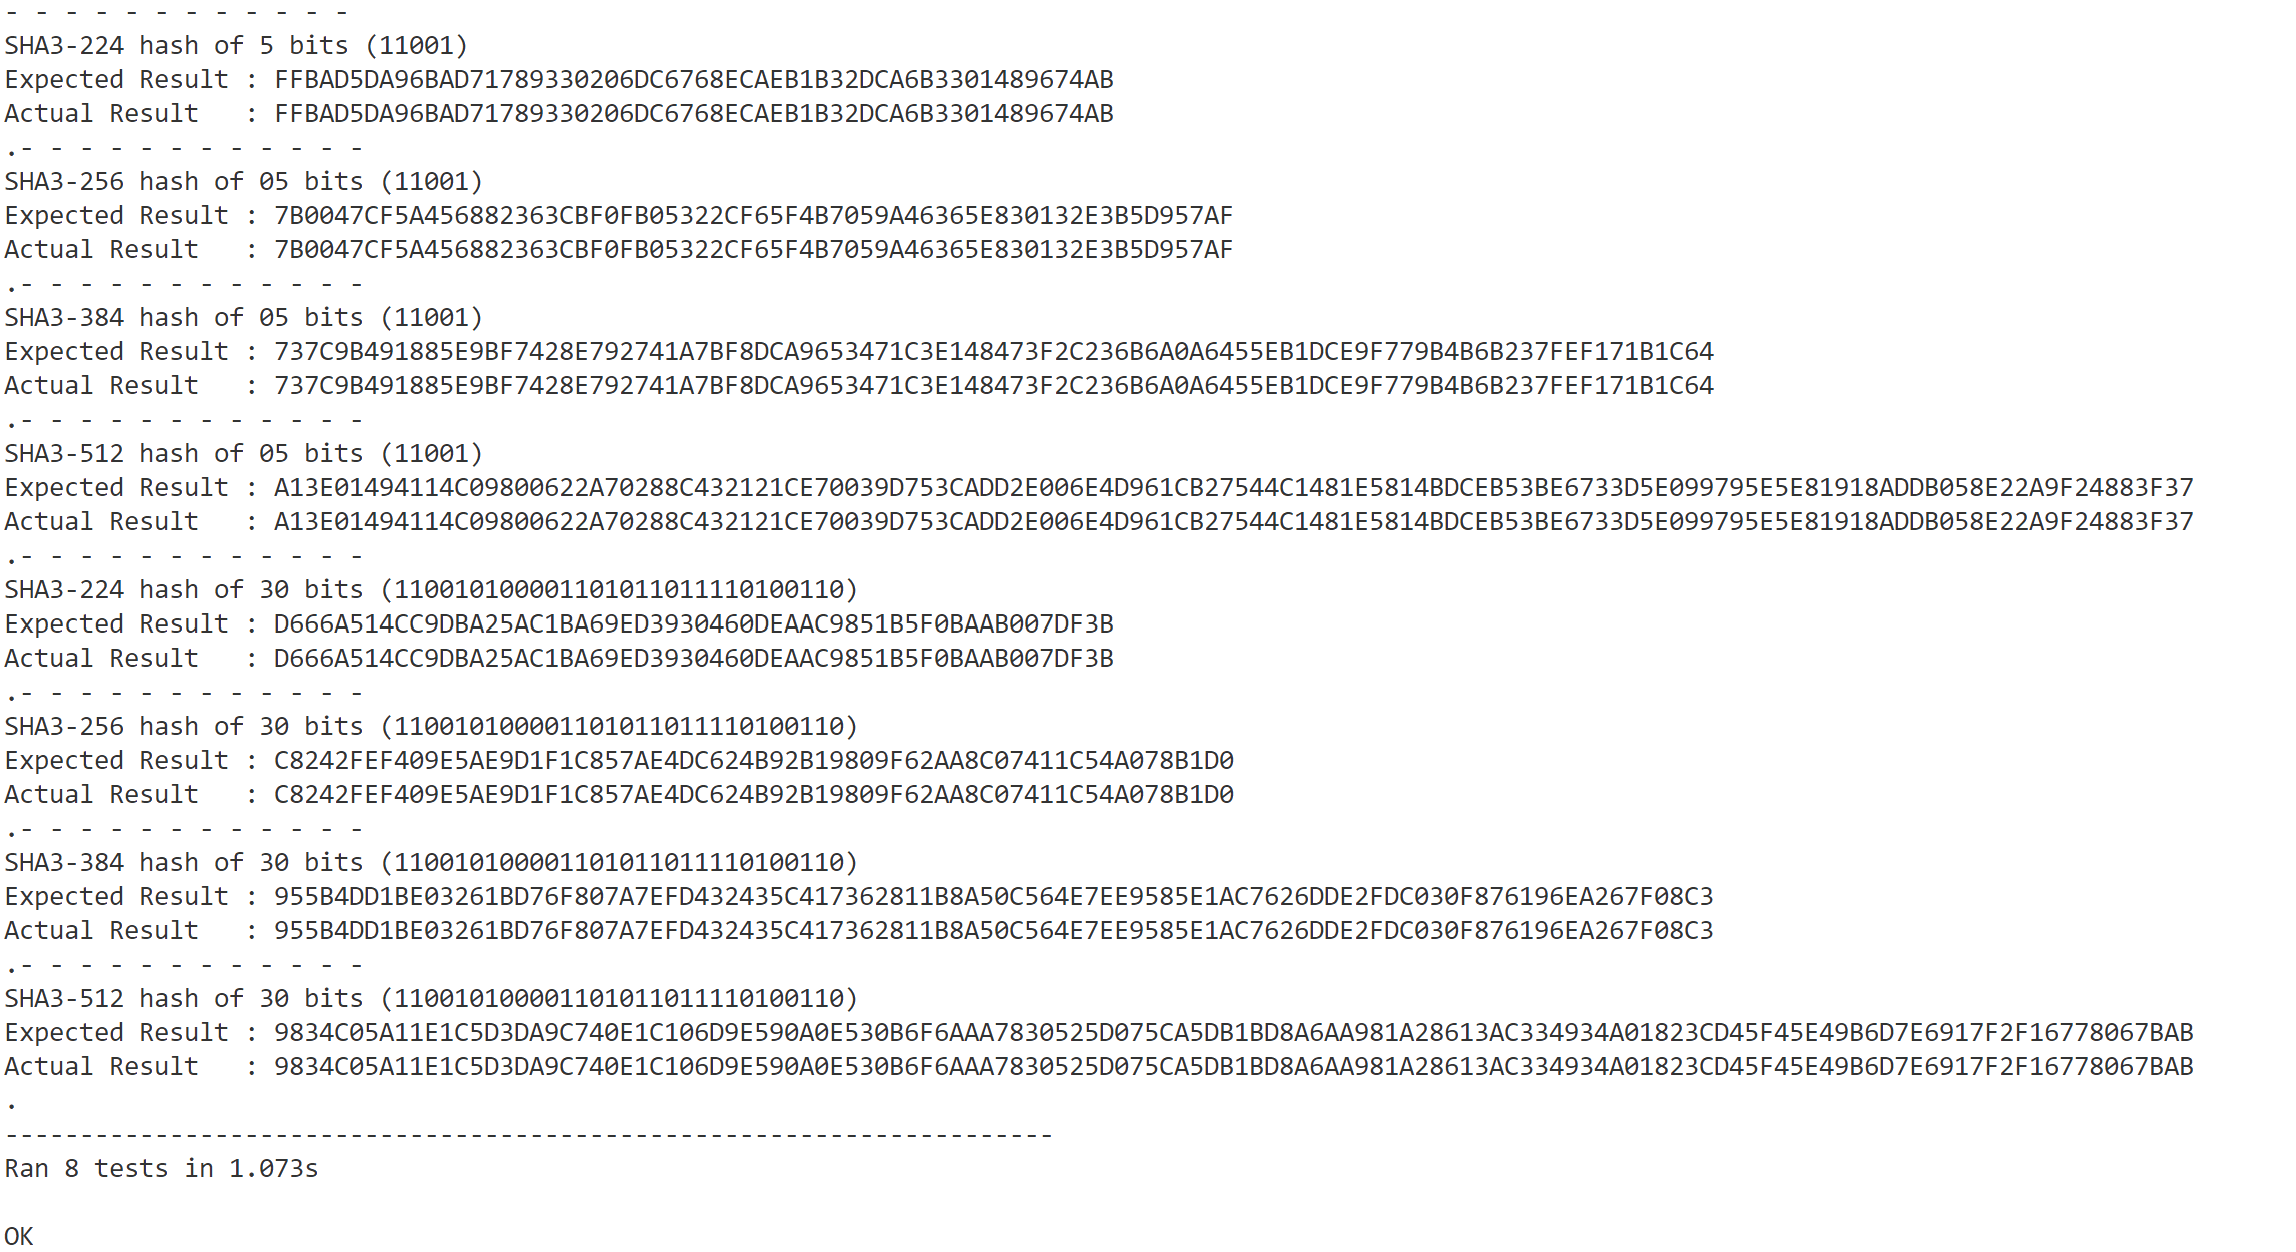
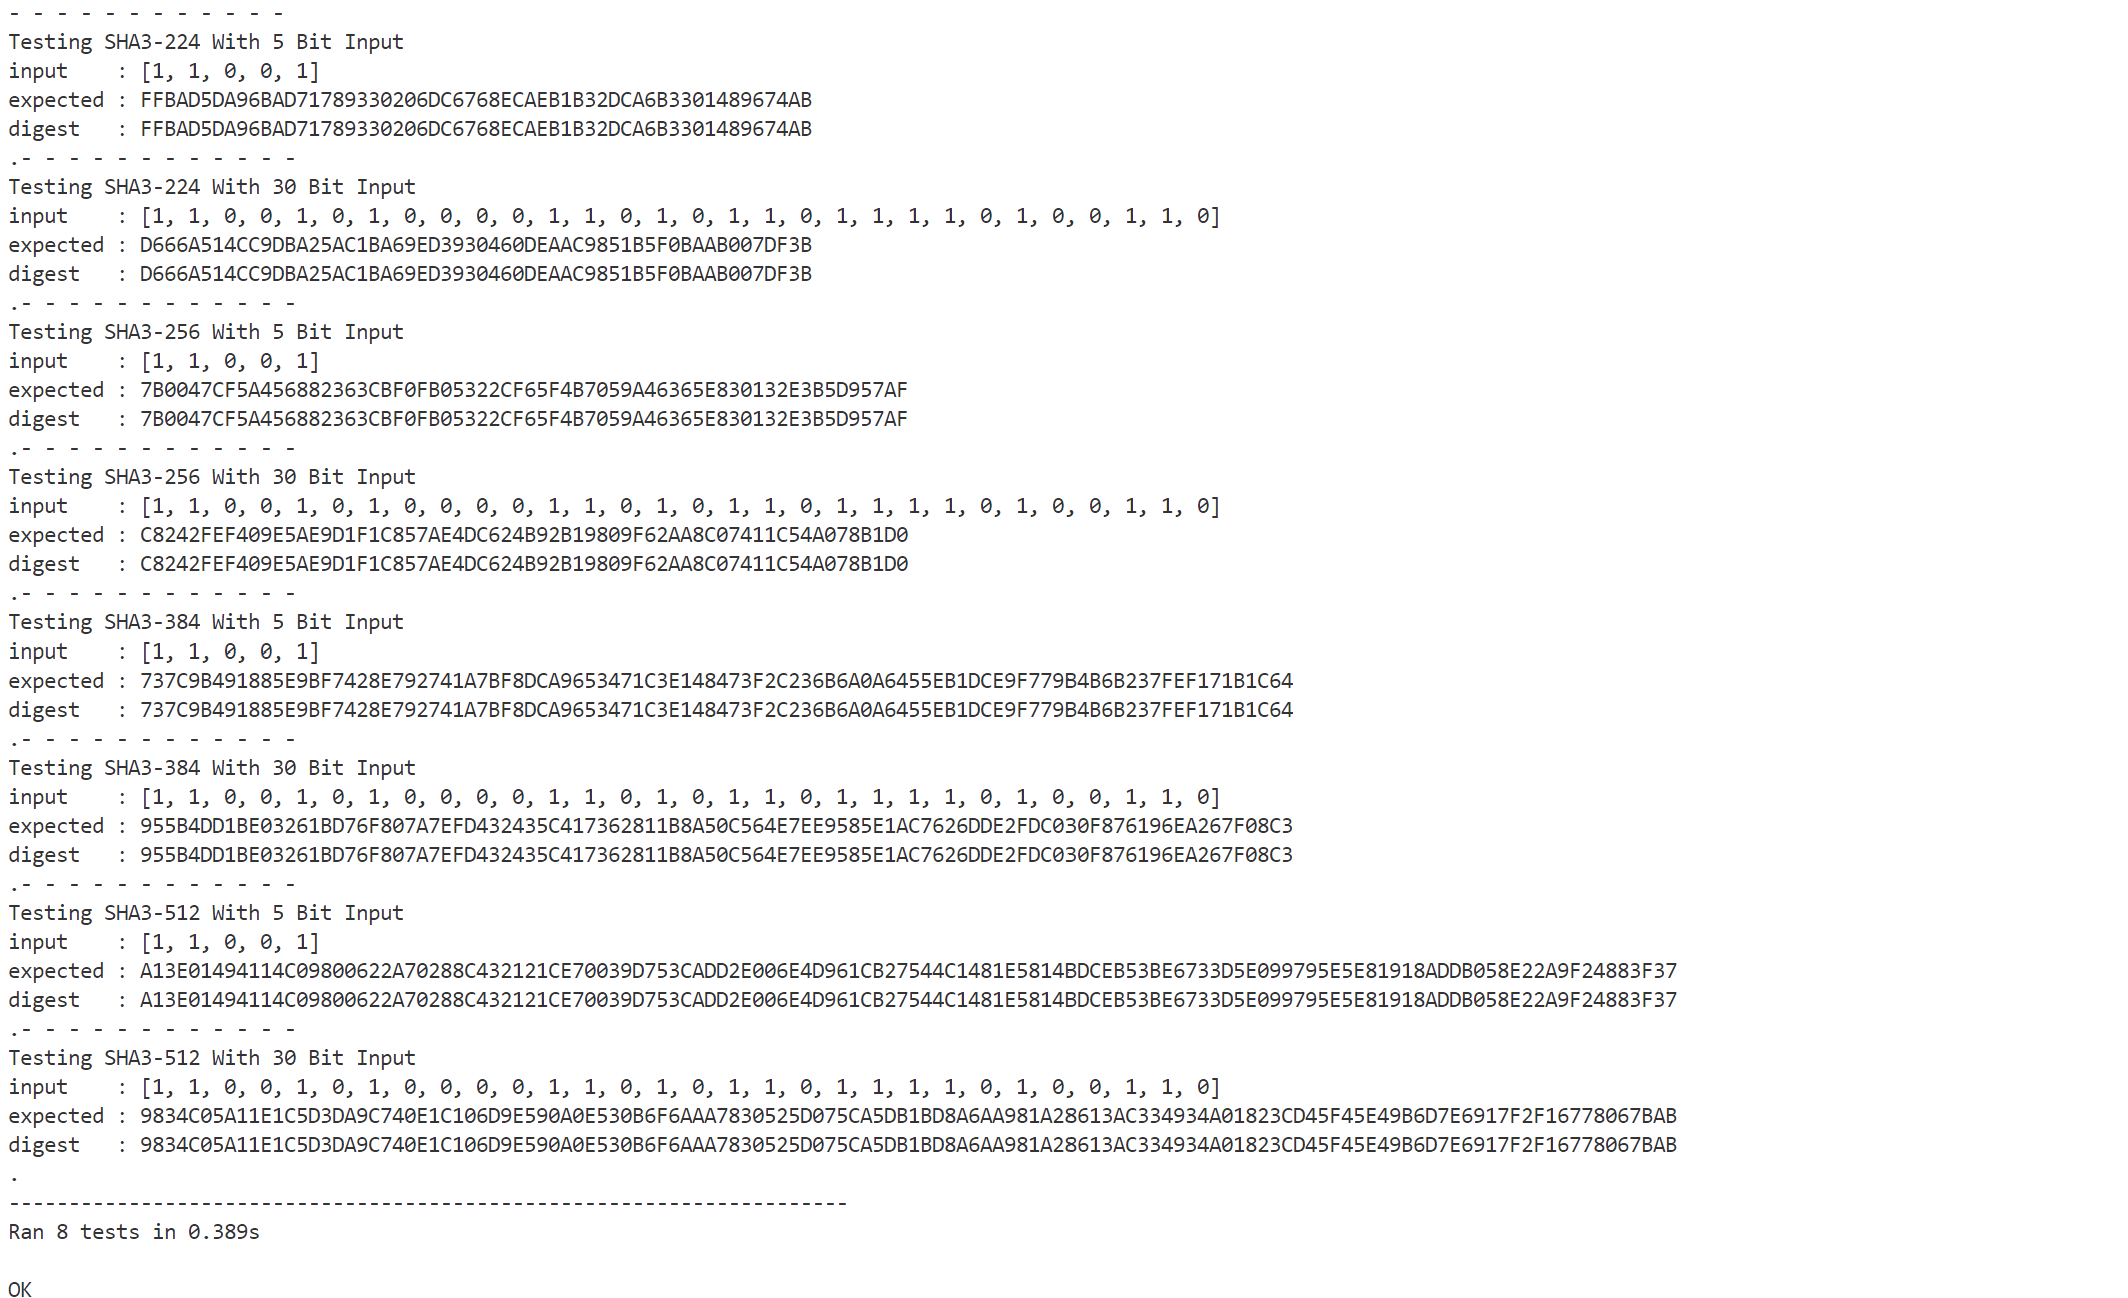
Updated SHA3 examples

Changed region(s): [[0.0, 0.2492, 0.9615, 1.0], [0.0, 0.0, 0.5583, 0.2181]]

diff --git a/CryptographySchemes/OutputImages/SHA3_Examples.py b/CryptographySchemes/OutputImages/SHA3_Examples.py
@@ -1,159 +1,164 @@
 import unittest
-from CryptographySchemes.SecureHashAlgorithm3 import *
-from math import log2
-
-def format_hex_as_bit_string(hex_string:str):
-    hex_string = hex_string.replace(" ","")
-    hex_len = len(hex_string)
-    value = int(hex_string,16)
-    bit_string = '{0:0{1}b}'.format(value,hex_len*4)
-    return bit_string
-
-def format_bit_as_hex_string(bit_string:str):
-    bit_string = bit_string.replace(" ","")
-    bit_len = len(bit_string)
-    value = int(bit_string,2)
-    bin_string = '{0:0{1}x}'.format(value,bit_len//4).upper()
-    return bin_string
+from CryptographySchemes.HashingAlgorithms.SecureHashAlgorithm3 import *
 
 class SHA3_UnitTest(unittest.TestCase):
     '''
-    This class contains basic unit tests for aes
+    This class contains example unit tests for SHA3
     '''
 
     def setUp(self):
         print("- - - - - - - - - - - -")
-        self.sha3_224 = SHA3_224()
-        self.sha3_256 = SHA3_256()
-        self.sha3_384 = SHA3_384()
-        self.sha3_512 = SHA3_512()
 
-        self.bit_string_input_5bit = "11001"
-        self.bit_string_input_30bit = "110010100001101011011110100110"
-        self.maxDiff = None
-
-    def test_05bit_sha224(self):
+    def test_sha224(self):
         '''
         This function tests the sha3-224 hash creation
 
         Test values taken from the SHA3 example files at https://csrc.nist.gov/projects/cryptographic-standards-and-guidelines/example-values
         '''
-
-        result = self.sha3_224.hashBinaryStringToHex(self.bit_string_input_5bit)
+        sha3 = SHA3_224()
+        bit_array_input = [1,1,0,0,1]
+        result = sha3.hashBitArray(bit_array_input)
         expected_result = "FF BA D5 DA 96 BA D7 17 89 33 02 06 DC 67 68 EC AE B1 B3 2D CA 6B 33 01 48 96 74 AB"
-        print(f"SHA3-224 hash of 5 bits ({self.bit_string_input_5bit})")
-        print(f"Expected Result : {expected_result.replace(" ","")}")
-        print(f"Actual Result   : {result}")        
-        self.assertEqual(len(result), 224//4)
-        self.assertEqual(expected_result.replace(" ",""),result)
+        handler_expected = SHA3_ValueHandler.fromHexString(expected_result)
+        print("Testing SHA3-224 With 5 Bit Input")
+        print(f"input    : {bit_array_input}")
+        print(f"expected : {handler_expected.getHexString()}")
+        print(f"digest   : {result.getHexString()}")
+        
+        self.assertEqual(result.getHexString(),handler_expected.getHexString())
 
-    def test_30bit_sha224(self):
+    def test_sha224_30bit(self):
         '''
         This function tests the sha3-224 hash creation
 
         Test values taken from the SHA3 example files at https://csrc.nist.gov/projects/cryptographic-standards-and-guidelines/example-values
         '''
-
-        result = self.sha3_224.hashBinaryStringToHex(self.bit_string_input_30bit)
+        sha3 = SHA3_224()
+        bit_array_input = [1,1,0,0,1,0,1,0,0,0,0,1,1,0,1,0,1,1,0,1,1,1,1,0,1,0,0,1,1,0]
+        result = sha3.hashBitArray(bit_array_input)
         expected_result = "D6 66 A5 14 CC 9D BA 25 AC 1B A6 9E D3 93 04 60 DE AA C9 85 1B 5F 0B AA B0 07 DF 3B"
-        print(f"SHA3-224 hash of 30 bits ({self.bit_string_input_30bit})")
-        print(f"Expected Result : {expected_result.replace(" ","")}")
-        print(f"Actual Result   : {result}")
-        self.assertEqual(len(result), 224//4)
-        self.assertEqual(expected_result.replace(" ",""),result)
-
-    def test_05bit_sha256(self):
-        '''
-        This function tests the sha3-256 hash creation
-
-        Test values taken from the SHA3 example files at https://csrc.nist.gov/projects/cryptographic-standards-and-guidelines/example-values
-        '''
-         
-        result = self.sha3_256.hashBinaryStringToHex(self.bit_string_input_5bit)
-        expected_result = "7B 00 47 CF 5A 45 68 82 36 3C BF 0F B0 53 22 CF 65 F4 B7 05 9A 46 36 5E 83 01 32 E3 B5 D9 57 AF"
-
-        print(f"SHA3-256 hash of 05 bits ({self.bit_string_input_5bit})")
-        print(f"Expected Result : {expected_result.replace(" ","")}")
-        print(f"Actual Result   : {result}")
-        self.assertEqual(len(result), 256//4)
-        self.assertEqual(expected_result.replace(" ",""),result)
-
-    def test_30bit_sha256(self):
-        '''
-        This function tests the sha3-256 hash creation
-
-        Test values taken from the SHA3 example files at https://csrc.nist.gov/projects/cryptographic-standards-and-guidelines/example-values
-        '''
-         
-        result = self.sha3_256.hashBinaryStringToHex(self.bit_string_input_30bit)
-        expected_result = "C8 24 2F EF 40 9E 5A E9 D1 F1 C8 57 AE 4D C6 24 B9 2B 19 80 9F 62 AA 8C 07 41 1C 54 A0 78 B1 D0"
-        print(f"SHA3-256 hash of 30 bits ({self.bit_string_input_30bit})")
-        print(f"Expected Result : {expected_result.replace(" ","")}")
-        print(f"Actual Result   : {result}")
-        self.assertEqual(len(result), 256//4)
-        self.assertEqual(expected_result.replace(" ",""),result)
-
-    def test_05bit_sha384(self):
-        '''
-        This function tests the sha3-384 hash creation
-
-        Test values taken from the SHA3 example files at https://csrc.nist.gov/projects/cryptographic-standards-and-guidelines/example-values
-        '''
-
-        result = self.sha3_384.hashBinaryStringToHex(self.bit_string_input_5bit)
-
-        expected_result = "73 7C 9B 49 18 85 E9 BF 74 28 E7 92 74 1A 7B F8 DC A9 65 34 71 C3 E1 48 47 3F 2C 23 6B 6A 0A 64 55 EB 1D CE 9F 77 9B 4B 6B 23 7F EF 17 1B 1C 64"
-        print(f"SHA3-384 hash of 05 bits ({self.bit_string_input_5bit})")
-        print(f"Expected Result : {expected_result.replace(" ","")}")
-        print(f"Actual Result   : {result}")
-        self.assertEqual(len(result), 384//4)
-        self.assertEqual(expected_result.replace(" ",""),result)
-
-    def test_30bit_sha384(self):
-        '''
-        This function tests the sha3-384 hash creation
-
-        Test values taken from the SHA3 example files at https://csrc.nist.gov/projects/cryptographic-standards-and-guidelines/example-values
-        '''
-
-        result = self.sha3_384.hashBinaryStringToHex(self.bit_string_input_30bit)
-        expected_result = "95 5B 4D D1 BE 03 26 1B D7 6F 80 7A 7E FD 43 24 35 C4 17 36 28 11 B8 A5 0C 56 4E 7E E9 58 5E 1A C7 62 6D DE 2F DC 03 0F 87 61 96 EA 26 7F 08 C3"
-        print(f"SHA3-384 hash of 30 bits ({self.bit_string_input_30bit})")
-        print(f"Expected Result : {expected_result.replace(" ","")}")
-        print(f"Actual Result   : {result}")
-        self.assertEqual(len(result), 384//4)
-        self.assertEqual(expected_result.replace(" ",""),result)
-
-    def test_05bit_sha512(self):
-        '''
-        This function tests the sha3-512 hash creation
-
-        Test values taken from the SHA3 example files at https://csrc.nist.gov/projects/cryptographic-standards-and-guidelines/example-values
-        '''
-         
-        result = self.sha3_512.hashBinaryStringToHex(self.bit_string_input_5bit)
-        expected_result = "A1 3E 01 49 41 14 C0 98 00 62 2A 70 28 8C 43 21 21 CE 70 03 9D 75 3C AD D2 E0 06 E4 D9 61 CB 27 54 4C 14 81 E5 81 4B DC EB 53 BE 67 33 D5 E0 99 79 5E 5E 81 91 8A DD B0 58 E2 2A 9F 24 88 3F 37"
+        handler_expected = SHA3_ValueHandler.fromHexString(expected_result)
+        print("Testing SHA3-224 With 30 Bit Input")
+        print(f"input    : {bit_array_input}")
+        print(f"expected : {handler_expected.getHexString()}")
+        print(f"digest   : {result.getHexString()}")
         
-        print(f"SHA3-512 hash of 05 bits ({self.bit_string_input_5bit})")
-        print(f"Expected Result : {expected_result.replace(" ","")}")
-        print(f"Actual Result   : {result}")
-        self.assertEqual(len(result), 512//4)
-        self.assertEqual(expected_result.replace(" ",""),result)
+        self.assertEqual(result.getHexString(),handler_expected.getHexString())
 
-    def test_30bit_sha512(self):
+    def test_sha256(self):
+        '''
+        This function tests the sha3-256 hash creation
+
+        Test values taken from the SHA3 example files at https://csrc.nist.gov/projects/cryptographic-standards-and-guidelines/example-values
+        '''
+         
+        sha3 = SHA3_256()
+        bit_array_input = [1,1,0,0,1]
+        result = sha3.hashBitArray(bit_array_input)
+        expected_result = "7B 00 47 CF 5A 45 68 82 36 3C BF 0F B0 53 22 CF 65 F4 B7 05 9A 46 36 5E 83 01 32 E3 B5 D9 57 AF"
+        handler_expected = SHA3_ValueHandler.fromHexString(expected_result)
+        print("Testing SHA3-256 With 5 Bit Input")
+        print(f"input    : {bit_array_input}")
+        print(f"expected : {handler_expected.getHexString()}")
+        print(f"digest   : {result.getHexString()}")
+        
+        self.assertEqual(result.getHexString(),handler_expected.getHexString())
+
+    def test_sha256_30bit(self):
+        '''
+        This function tests the sha3-256 hash creation
+
+        Test values taken from the SHA3 example files at https://csrc.nist.gov/projects/cryptographic-standards-and-guidelines/example-values
+        '''
+         
+        sha3 = SHA3_256()
+        bit_array_input = [1,1,0,0,1,0,1,0,0,0,0,1,1,0,1,0,1,1,0,1,1,1,1,0,1,0,0,1,1,0]
+        result = sha3.hashBitArray(bit_array_input)
+        expected_result = "C8 24 2F EF 40 9E 5A E9 D1 F1 C8 57 AE 4D C6 24 B9 2B 19 80 9F 62 AA 8C 07 41 1C 54 A0 78 B1 D0"
+        handler_expected = SHA3_ValueHandler.fromHexString(expected_result)
+        print("Testing SHA3-256 With 30 Bit Input")
+        print(f"input    : {bit_array_input}")
+        print(f"expected : {handler_expected.getHexString()}")
+        print(f"digest   : {result.getHexString()}")
+        
+        self.assertEqual(result.getHexString(),handler_expected.getHexString())
+
+    def test_sha384(self):
+        '''
+        This function tests the sha3-384 hash creation
+
+        Test values taken from the SHA3 example files at https://csrc.nist.gov/projects/cryptographic-standards-and-guidelines/example-values
+        '''
+
+        sha3 = SHA3_384()
+        bit_array_input = [1,1,0,0,1]
+        result = sha3.hashBitArray(bit_array_input)
+        expected_result = "73 7C 9B 49 18 85 E9 BF 74 28 E7 92 74 1A 7B F8 DC A9 65 34 71 C3 E1 48 47 3F 2C 23 6B 6A 0A 64 55 EB 1D CE 9F 77 9B 4B 6B 23 7F EF 17 1B 1C 64"
+        handler_expected = SHA3_ValueHandler.fromHexString(expected_result)
+        print("Testing SHA3-384 With 5 Bit Input")
+        print(f"input    : {bit_array_input}")
+        print(f"expected : {handler_expected.getHexString()}")
+        print(f"digest   : {result.getHexString()}")
+        
+        self.assertEqual(result.getHexString(),handler_expected.getHexString())
+
+    def test_sha384_30bit(self):
+        '''
+        This function tests the sha3-384 hash creation
+
+        Test values taken from the SHA3 example files at https://csrc.nist.gov/projects/cryptographic-standards-and-guidelines/example-values
+        '''
+
+        sha3 = SHA3_384()
+        bit_array_input = [1,1,0,0,1,0,1,0,0,0,0,1,1,0,1,0,1,1,0,1,1,1,1,0,1,0,0,1,1,0]
+        result = sha3.hashBitArray(bit_array_input)        
+        expected_result = "95 5B 4D D1 BE 03 26 1B D7 6F 80 7A 7E FD 43 24 35 C4 17 36 28 11 B8 A5 0C 56 4E 7E E9 58 5E 1A C7 62 6D DE 2F DC 03 0F 87 61 96 EA 26 7F 08 C3"
+        handler_expected = SHA3_ValueHandler.fromHexString(expected_result)
+        print("Testing SHA3-384 With 30 Bit Input")
+        print(f"input    : {bit_array_input}")
+        print(f"expected : {handler_expected.getHexString()}")
+        print(f"digest   : {result.getHexString()}")
+        
+        self.assertEqual(result.getHexString(),handler_expected.getHexString())
+
+    def test_sha512(self):
         '''
         This function tests the sha3-512 hash creation
 
         Test values taken from the SHA3 example files at https://csrc.nist.gov/projects/cryptographic-standards-and-guidelines/example-values
         '''
          
-        result = self.sha3_512.hashBinaryStringToHex(self.bit_string_input_30bit)
+        sha3 = SHA3_512()
+        bit_array_input = [1,1,0,0,1]
+        result = sha3.hashBitArray(bit_array_input)
+        expected_result = "A1 3E 01 49 41 14 C0 98 00 62 2A 70 28 8C 43 21 21 CE 70 03 9D 75 3C AD D2 E0 06 E4 D9 61 CB 27 54 4C 14 81 E5 81 4B DC EB 53 BE 67 33 D5 E0 99 79 5E 5E 81 91 8A DD B0 58 E2 2A 9F 24 88 3F 37"
+        handler_expected = SHA3_ValueHandler.fromHexString(expected_result)
+        print("Testing SHA3-512 With 5 Bit Input")
+        print(f"input    : {bit_array_input}")
+        print(f"expected : {handler_expected.getHexString()}")
+        print(f"digest   : {result.getHexString()}")
+        
+        self.assertEqual(result.getHexString(),handler_expected.getHexString())
+
+    def test_sha512_30bit(self):
+        '''
+        This function tests the sha3-512 hash creation
+
+        Test values taken from the SHA3 example files at https://csrc.nist.gov/projects/cryptographic-standards-and-guidelines/example-values
+        '''
+         
+        sha3 = SHA3_512()
+        bit_array_input = [1,1,0,0,1,0,1,0,0,0,0,1,1,0,1,0,1,1,0,1,1,1,1,0,1,0,0,1,1,0]
+        result = sha3.hashBitArray(bit_array_input) 
         expected_result = "98 34 C0 5A 11 E1 C5 D3 DA 9C 74 0E 1C 10 6D 9E 59 0A 0E 53 0B 6F 6A AA 78 30 52 5D 07 5C A5 DB 1B D8 A6 AA 98 1A 28 61 3A C3 34 93 4A 01 82 3C D4 5F 45 E4 9B 6D 7E 69 17 F2 F1 67 78 06 7B AB"        
-        print(f"SHA3-512 hash of 30 bits ({self.bit_string_input_30bit})")
-        print(f"Expected Result : {expected_result.replace(" ","")}")
-        print(f"Actual Result   : {result}")
-        self.assertEqual(len(result), 512//4)
-        self.assertEqual(expected_result.replace(" ",""),result)
+        handler_expected = SHA3_ValueHandler.fromHexString(expected_result)
+        print("Testing SHA3-512 With 30 Bit Input")
+        print(f"input    : {bit_array_input}")
+        print(f"expected : {handler_expected.getHexString()}")
+        print(f"digest   : {result.getHexString()}")
+        
+        self.assertEqual(result.getHexString(),handler_expected.getHexString())
+
 
 if __name__ == '__main__':
     unittest.main()
